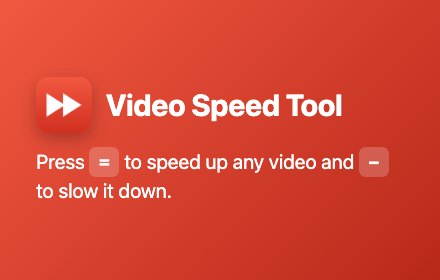
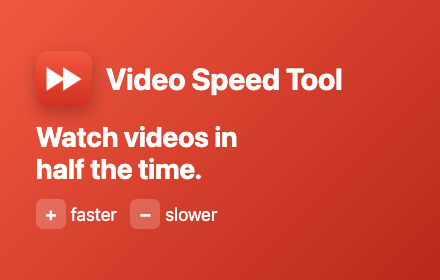
docs: rewrite the store copy and art around watching faster
Lead with the outcome ("watch videos in half the time") instead of the key, name the key as +,
make the time-saved total the proof in screenshot 2, and pitch working on sites with no speed
menu. Regenerate the screenshots and promo tile, and update the README and the copy notes.

Changed region(s): [[0.0591, 0.2286, 0.8864, 0.8286]]

diff --git a/CHROMEWEBSTORE.md b/CHROMEWEBSTORE.md
@@ -1,6 +1,6 @@
 # Store listings: Video Speed Tool
 
-Last updated: 2026-10-24
+Last updated: 2026-10-27
 
 This file holds everything the Chrome Web Store and Firefox Add-ons (AMO) dashboards ask for. Both stores take the same package from `npm run build`.
 
@@ -18,17 +18,20 @@ This file holds everything the Chrome Web Store and Firefox Add-ons (AMO) dashbo
 
 ### Why this copy
 
-- The short description gives the two keys before anything else. Someone scanning search results learns how to use it before they install, so trying it takes no effort.
-- "Works on YouTube and every other site" answers the first question a YouTube user has, and widens the audience past YouTube in the same line.
-- "Up to 16x" is a number someone can check, instead of "fast" or "powerful".
-- The description explains the "all websites" permission before Chrome's install warning does. An unexplained broad permission is the most likely reason someone backs out of the install.
+- Lead with the outcome, not the key. People install this to get through a video faster, so "half the time" comes first and "one key" explains how. The key itself appears in the screenshots, where it reads as proof of how little effort it takes.
+- "A 40-minute lecture in 20" is a picture someone can check against their own watch list. It does more than "save time".
+- Name the key as +, the label on the key cap. Calling it = reads as a typo. The extension accepts it with or without Shift, so the copy never needs to explain Shift beyond one line.
+- The time-saved total is the strongest proof the product offers, and it's the reader's own number. Screenshot 2 leads with it instead of with the settings.
+- "Even on sites with no speed menu" names the gap the browser leaves. On YouTube, people already have a slower way, the menu. Elsewhere they often have none.
+- "Free, no tracking" sits in the short description because a broad-permission extension has to earn trust before Chrome's install warning appears. The description repeats it, then explains the "all websites" permission in plain words.
 - "Audio may cut out above 4x" admits a limit up front. Saying it first beats a one-star review that says it later.
-- "YouTube" appears only as the place where it works. It's never in the name or the icon, and the screenshots use made-up players. Store policy flags names and art that suggest a partnership with another brand.
+- "YouTube" appears only as a place where it works. It's never in the name or the icon, and the screenshots use made-up players. Store policy flags names and art that suggest a partnership with another brand.
+- No ratings, user counts or testimonials yet. Add real ones once the listings have them. Don't invent them.
 
 Alternatives for the short description, if the first one tests poorly:
 
-- "Speed up any video with one key: = goes faster, - goes slower. Up to 16x, on YouTube and every other site." Leads with the outcome instead of the action.
-- "Watch videos faster with one key. Press = to speed up and - to slow down, on YouTube and every site with video." Softer, with no number.
+- "Finish a 40-minute lecture in 20. One key speeds up any video, on YouTube and every other site. Free, no tracking." More concrete, aimed at students.
+- "Get through long videos faster. Press + to speed up any video on YouTube or any other site, up to 16x. Free, no tracking." Names the key for people who search by how it works.
 
 ## Graphics
 
@@ -37,9 +40,9 @@ All files are in `store/`. Regenerate them with `npm run store-assets` (screensh
 | Asset | Size | File | Store |
 |---|---|---|---|
 | Store icon | 128x128, 96x96 artwork with transparent padding | `store/icon-128.png` | Chrome |
-| Screenshot 1: the keys and the control | 1280x800 | `store/screenshot-1.png` | Both |
-| Screenshot 2: the settings page | 1280x800 | `store/screenshot-2.png` | Both |
-| Screenshot 3: a course site, speed-only control at the bottom left | 1280x800 | `store/screenshot-3.png` | Both |
+| Screenshot 1: "Watch a 40-minute video in 20", the keys and the control at 2x | 1280x800 | `store/screenshot-1.png` | Both |
+| Screenshot 2: "See the hours you've saved", the settings page | 1280x800 | `store/screenshot-2.png` | Both |
+| Screenshot 3: "Even on sites with no speed menu", a course site with a speed-only control | 1280x800 | `store/screenshot-3.png` | Both |
 | Small promo tile | 440x280 | `store/promo-440x280.png` | Chrome |
 
 Firefox takes its icon from the package, so it needs no separate upload.
@@ -90,7 +93,7 @@ Settings go through Chrome's own sync to the user's own account. The developer n
 
 Both stores have a field for this. Paste:
 
-> No build step: the uploaded files are the source. To test, open any page with a video, for example a YouTube video, and press = and - to change the speed. Hover over the video to see the speed control. Click the toolbar icon to open the settings.
+> No build step: the uploaded files are the source. To test, open any page with a video, for example a YouTube video, and press + and - to change the speed. Hover over the video to see the speed control. Click the toolbar icon to open the settings.
 
 ## Known issues and review risks
 

diff --git a/README.md b/README.md
@@ -1,9 +1,10 @@
 # Video Speed Tool
 
-A Chrome and Firefox extension for changing playback speed on YouTube and any other HTML5 video.
+Watch videos in half the time. A Chrome and Firefox extension that puts playback speed on one
+key, on YouTube and every other site with an HTML5 video, including ones with no speed menu.
 It's a clone of [Youtube Playback Speed Control](https://chromewebstore.google.com/detail/youtube-playback-speed-co/hdannnflhlmdablckfkjpleikpphncik).
 
-- `=` speeds up and `-` slows down, no Shift needed. Both keys can be rebound, and the step defaults to 0.25.
+- `+` speeds up and `-` slows down, with or without Shift. Both keys can be rebound, and the step defaults to 0.25.
 - A small `« 1x » ⚙` control sits on the video. Click the speed to reset it.
 - The control can show on hover, always, or never. The speed buttons and the gear can each be turned off, leaving just the speed. It has six positions and an optional fade.
 - The options page shows how much time watching faster has saved you.
